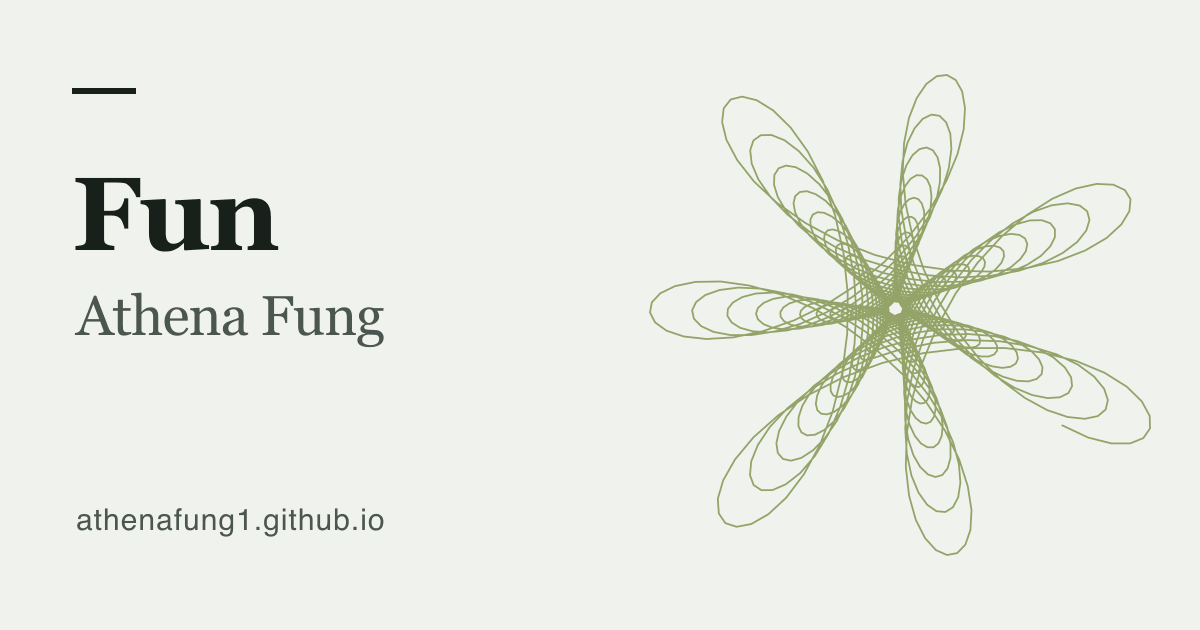
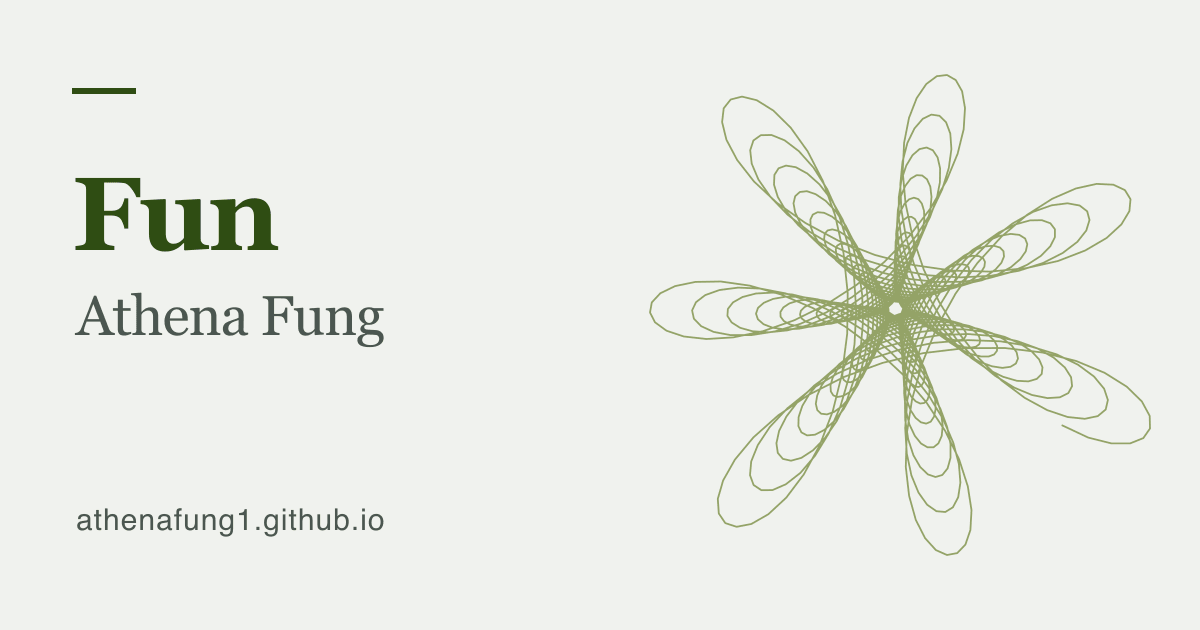
edit font color

Changed region(s): [[0.0617, 0.2714, 0.2467, 0.4222], [0.0617, 0.1206, 0.1233, 0.1508]]

diff --git a/src/styles/tokens.css b/src/styles/tokens.css
@@ -7,13 +7,13 @@
     color-scheme: light dark;
 
     /* Color: sage on cool grey paper, defined once with light-dark(). Contrast checked for WCAG 2.1
-       AA in both themes (text ≥ 13:1, muted ≥ 6.5:1, accent ≥ 4.5:1, UI borders and focus ≥ 3:1).
+       AA in both themes (text ≥ 8.5:1, muted ≥ 6.5:1, accent ≥ 4.5:1, UI borders and focus ≥ 3:1).
        --color-curve is the sage itself, #899A59: the curves, the site mark, link underlines and
        margin-note rules. On the light paper it is only 2.7:1, too faint for text, so green text
        uses --color-accent, a darker olive of the same hue. */
     --color-bg: light-dark(#f0f2ee, #1f2421);
     --color-surface: light-dark(#f9faf8, #272d29);
-    --color-text: light-dark(#18201c, #ecefea);
+    --color-text: light-dark(#2f4d13, #ecefea);
     --color-muted: light-dark(#4b5650, #b1bab1);
     --color-accent: light-dark(#5f6b3e, #899a59);
     --color-accent-ink: light-dark(#ffffff, #1b221d);
